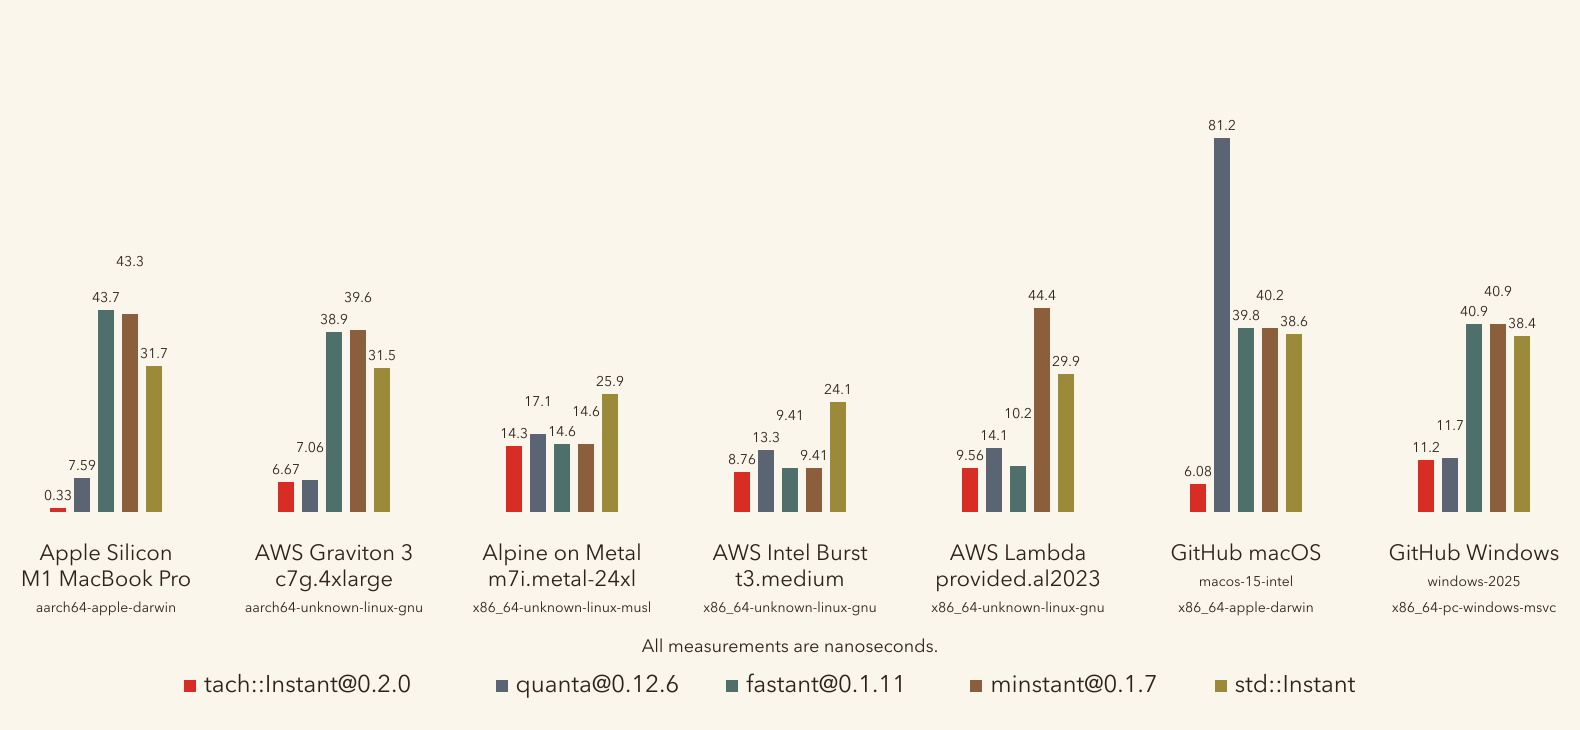
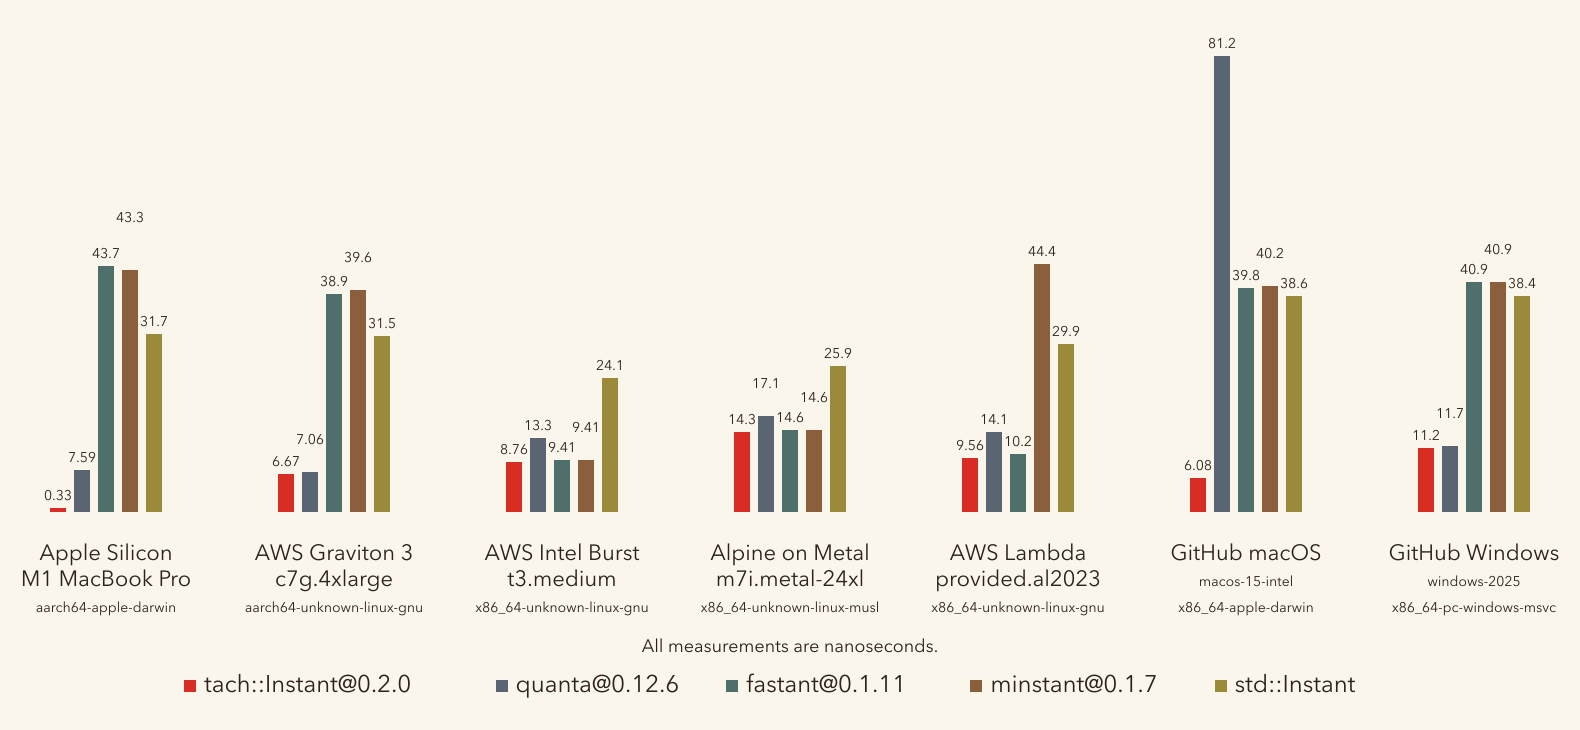
docs(benches): tighten Instant chart top space and reorder cells
- Drop break_value from 100.0 to 82.0 (just above the 81.234 max on
  GitHub macOS / quanta) so the tallest bar fills the lower bar area
  instead of leaving ~20% cream above it. All other bars scale up
  proportionally, restoring the visual differentiation that was
  squashed when break_value was set conservatively high.
- Reorder cells so Alpine on Metal follows AWS Intel Burst, putting
  similar AWS x86 cells adjacent: Apple Silicon, Graviton 3,
  t3.medium, m7i.metal-24xl (musl), Lambda, then GitHub runners last.

diff --git a/benches/assets/render_benchmark.py b/benches/assets/render_benchmark.py
@@ -64,10 +64,10 @@ INSTANT_GROUPS = [
    [0.331, 7.591, 43.722, 43.259, 31.658]),
   (("AWS Graviton 3", "c7g.4xlarge", "aarch64-unknown-linux-gnu"),
    [6.673, 7.062, 38.939, 39.578, 31.463]),
-  (("Alpine on Metal", "m7i.metal-24xl", "x86_64-unknown-linux-musl"),
-   [14.316, 17.074, 14.625, 14.625, 25.865]),
   (("AWS Intel Burst", "t3.medium", "x86_64-unknown-linux-gnu"),
    [8.762, 13.314, 9.408, 9.408, 24.059]),
+  (("Alpine on Metal", "m7i.metal-24xl", "x86_64-unknown-linux-musl"),
+   [14.316, 17.074, 14.625, 14.625, 25.865]),
   (("AWS Lambda", "provided.al2023", "x86_64-unknown-linux-gnu"),
    [9.556, 14.102, 10.206, 44.386, 29.919]),
   (("GitHub macOS", "macos-15-intel", "x86_64-apple-darwin"),
@@ -296,7 +296,7 @@ def main() -> None:
       upper_bar_height=SIMPLE_UPPER_BAR_HEIGHT,
       label_top=SIMPLE_LABEL_TOP,
       group_background=BACKGROUND,
-      break_value=100.0,
+      break_value=82.0,
     )
   )
   rsvg_convert = shutil.which("rsvg-convert")
